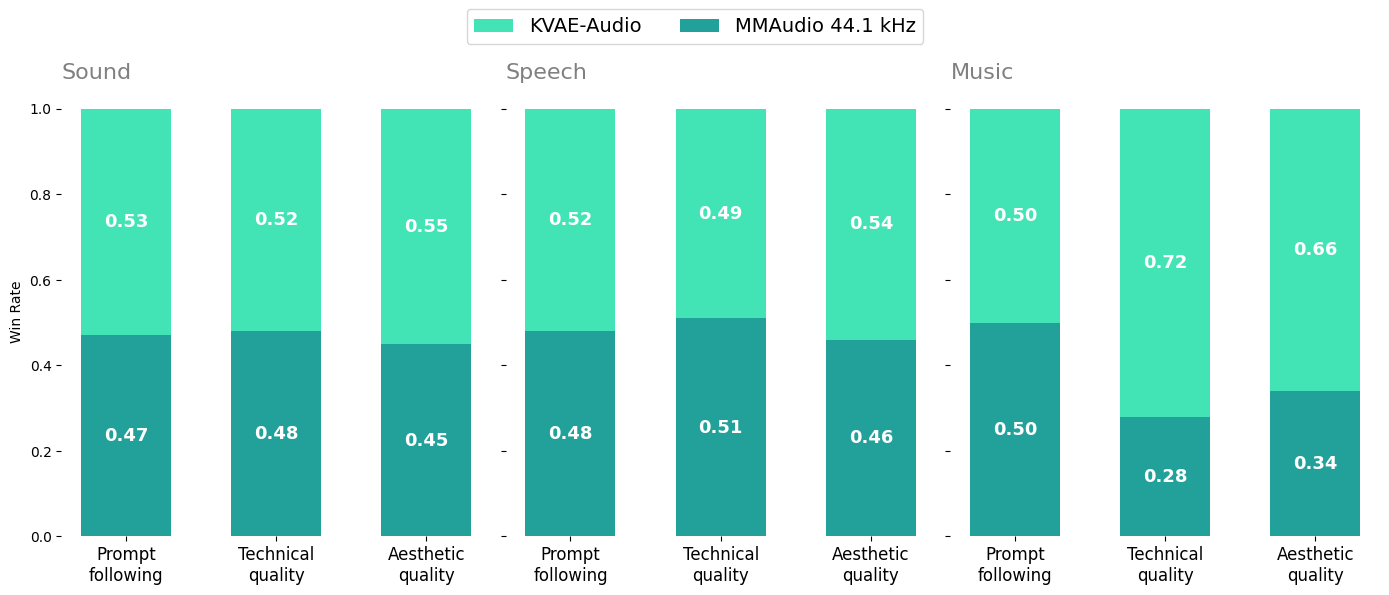
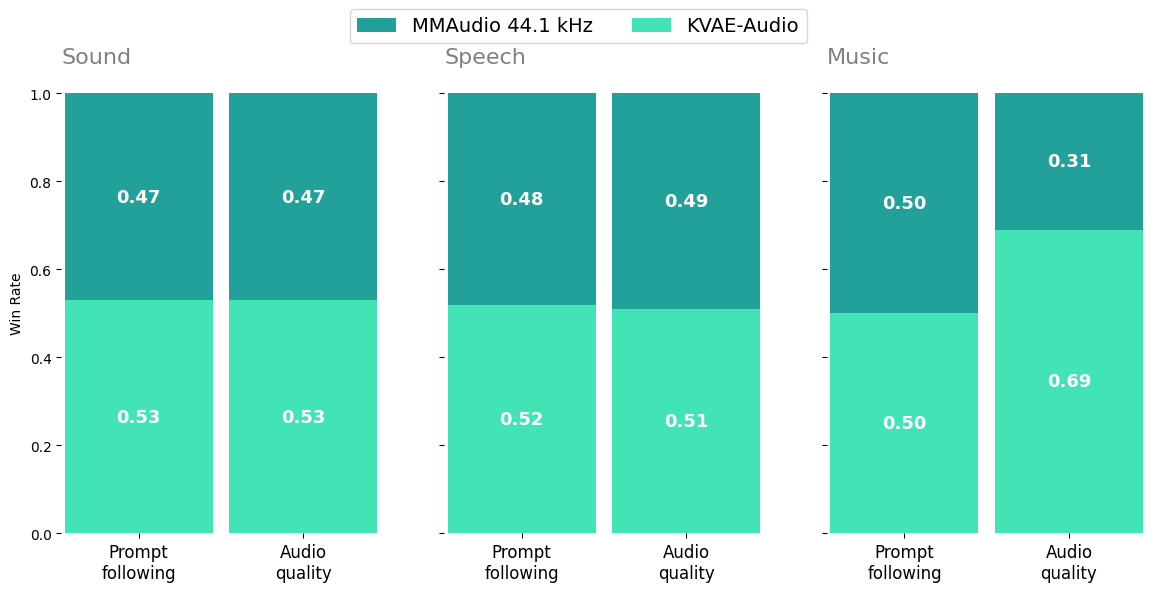
upd: images

diff --git a/README.md b/README.md
@@ -77,6 +77,43 @@ sf.write("output.wav", audio.squeeze(0).T.numpy(), sr)
 
 ## Evaluation results
 
+### Evaluation of latent space qualities for generation
+
+<img src="assets/sbs_same_l.png" />
+
+<img src="assets/sbs_moviegen.png" />
+
+<img src="assets/sbs_mmaudio.png" />
+
+Generative quality is established under a **fixed generator** — same DiT architecture, training data, and number of steps — varying only the autoencoder. We report objective generation metrics and blind human side-by-side below.
+
+### AudioCaps test set
+
+| Model           | # Params | Latent dim | CLAP↑     | CE↑       | PQ↑       | FAD (PANNs)↓ | FAD (PASST)↓ | FAD (VGGIsh)↓ |
+| --------------- | -------- | ---------- | --------- | --------- | --------- | ------------ | ------------ | ------------- |
+| MMAudio 44.1kHz | 427.6M   | 40         | *0,336*   | *3,909*   | *6,192*     | *17,873*       | *195,910*      | 1,364         |
+| DACVAE MovieGen | 107.7M   | 128        | 0,313     | 3,772     | 6,167     | 20,558       | 234,312      | 1,700         |
+| SAME-L          | 852.1M   | 256        | 0,322     | 3,588     | 5,756     | 18,446       | 240,635      | *1,325*       |
+| KVAE-Audio      | 166.9M   | 64         | **0,344** | **3,982** | **6,242** | **15,381**   | **193,760**  | **1,210**     |
+
+#### Song Describer
+
+| Model           | # Params | Latent dim | CLAP↑     | CE↑       | PQ↑       | FAD (PANNs)↓ | FAD (PASST)↓ | FAD (VGGIsh)↓ |
+| --------------- | -------- | ---------- | --------- | --------- | --------- | ------------ | ------------ | ------------- |
+| MMAudio 44.1kHz | 427.6M   | 40         | **0,356** | *7,136*   | *7,707*   | **5,412**    | **158,599**  | **0,356**     |
+| DACVAE MovieGen | 107.7M   | 128        | 0,312     | 6,953     | 7,538     | 10,194       | 214,009      | 1,046         |
+| SAME-L          | 852.1M   | 256        | *0,345*   | 7,076     | 7,465     | 8,442        | 250,668      | 0,987         |
+| KVAE-Audio      | 166.9M   | 64         | 0,339     | **7,216** | **7,929** | *7,971*        | *189,427*      | *0,599*         |
+
+#### LibriSpeech test-clean
+
+| Model           | # Params | Latent dim | CLAP↑     | CE↑       | PQ↑       | FAD (PANNs)↓ | FAD (PASST)↓ | FAD (VGGIsh)↓ | WER↓      | CER↓      |
+| --------------- | -------- | ---------- | --------- | --------- | --------- | ------------ | ------------ | ------------- | --------- | --------- |
+| MMAudio 44.1kHz | 427.6M   | 40         | 0,368     | *5,704*   | 6,629     | 8,305        | **105,931**  | *2,001*       | *0,257*   | *0,593*   |
+| DACVAE MovieGen | 107.7M   | 128        | **0,413** | 5,482     | **7,052** | *5,008*      | 210,478      | **1,501**     | 0,911     | 1,048     |
+| SAME-L          | 852.1M   | 256        | 0,379     | 4,617     | 5,024     | 10,257       | 301,508      | 2,721         | 0,349     | 0,629     |
+| KVAE-Audio      | 166.9M   | 64         | *0,389*   | **5,906** | *6,940*   | **4,677**    | *185,609*    | 2,138         | **0,244** | **0,576** |
+
 ### Reconstructions
 
 Reconstruction is evaluated on open datasets across domains (the released weights directly substantiate these numbers). Baselines: **[MMAudio 44.1 kHz](https://arxiv.org/abs/2412.15322)** VAE, **[DACVAE from MovieGen Audio](https://arxiv.org/abs/2410.13720)**, **[SAME-L](https://arxiv.org/abs/2605.18613)** (Stable Audio 3 VAE).
@@ -108,49 +145,11 @@ Reconstruction is evaluated on open datasets across domains (the released weight
 | SAME-L          | 852.1M   | 256        | 0,774     | 1,575     | 0,007     | 9,939      | 10,374     | 10,376     | 2,982     |
 | KVAE-Audio      | 166.9M   | 64         | *0,463*   | *1,314*   | **0,006** | *9,952*    | *10,377*   | *10,384*   | **4,266** |
 
-### Evaluation of latent space qualities for generation
-
-Generative quality is established under a **fixed generator** — same DiT architecture, training data, and number of steps — varying only the autoencoder. We report objective generation metrics and blind human side-by-side below.
-
-### AudioCaps test set
-
-| Model           | # Params | Latent dim | CLAP↑     | CE↑       | PQ↑       | FAD (PANNs)↓ | FAD (PASST)↓ | FAD (VGGIsh)↓ |
-| --------------- | -------- | ---------- | --------- | --------- | --------- | ------------ | ------------ | ------------- |
-| MMAudio 44.1kHz | 427.6M   | 40         | *0,336*   | *3,909*   | *6,192*     | *17,873*       | *195,910*      | 1,364         |
-| DACVAE MovieGen | 107.7M   | 128        | 0,313     | 3,772     | 6,167     | 20,558       | 234,312      | 1,700         |
-| SAME-L          | 852.1M   | 256        | 0,322     | 3,588     | 5,756     | 18,446       | 240,635      | *1,325*       |
-| KVAE-Audio      | 166.9M   | 64         | **0,344** | **3,982** | **6,242** | **15,381**   | **193,760**  | **1,210**     |
-
-#### Song Describer
-
-| Model           | # Params | Latent dim | CLAP↑     | CE↑       | PQ↑       | FAD (PANNs)↓ | FAD (PASST)↓ | FAD (VGGIsh)↓ |
-| --------------- | -------- | ---------- | --------- | --------- | --------- | ------------ | ------------ | ------------- |
-| MMAudio 44.1kHz | 427.6M   | 40         | **0,356** | *7,136*   | *7,707*   | **5,412**    | **158,599**  | **0,356**     |
-| DACVAE MovieGen | 107.7M   | 128        | 0,312     | 6,953     | 7,538     | 10,194       | 214,009      | 1,046         |
-| SAME-L          | 852.1M   | 256        | *0,345*   | 7,076     | 7,465     | 8,442        | 250,668      | 0,987         |
-| KVAE-Audio      | 166.9M   | 64         | 0,339     | **7,216** | **7,929** | *7,971*        | *189,427*      | *0,599*         |
-
-#### LibriSpeech test-clean
-
-| Model           | # Params | Latent dim | CLAP↑     | CE↑       | PQ↑       | FAD (PANNs)↓ | FAD (PASST)↓ | FAD (VGGIsh)↓ | WER↓      | CER↓      |
-| --------------- | -------- | ---------- | --------- | --------- | --------- | ------------ | ------------ | ------------- | --------- | --------- |
-| MMAudio 44.1kHz | 427.6M   | 40         | 0,368     | *5,704*   | 6,629     | 8,305        | **105,931**  | *2,001*       | *0,257*   | *0,593*   |
-| DACVAE MovieGen | 107.7M   | 128        | **0,413** | 5,482     | **7,052** | *5,008*      | 210,478      | **1,501**     | 0,911     | 1,048     |
-| SAME-L          | 852.1M   | 256        | 0,379     | 4,617     | 5,024     | 10,257       | 301,508      | 2,721         | 0,349     | 0,629     |
-| KVAE-Audio      | 166.9M   | 64         | *0,389*   | **5,906** | *6,940*   | **4,677**    | *185,609*    | 2,138         | **0,244** | **0,576** |
-
-
-<img src="assets/sbs_mmaudio.png" />
-
-<img src="assets/sbs_moviegen.png" />
-
-<img src="assets/sbs_same_l.png" />
-
 ## Citation
 
 ```
 @misc{kvae_audio_2026,
-    author = {Ivan Kirillov, Denis Parkhomenko, Alexandr Ivanov, Azat Saginbaev, Egor Silvestrov},
+    author = {Ivan Kirillov, Denis Parkhomenko, Alexandr Ivanov, Azat Saginbaev, Egor Silvestrov, Denis Dimitrov},
     title = {KVAE-Audio: a full-band continuous audio tokenizer for generative models},
     howpublished = {\url{https://github.com/kandinskylab/kvae-audio}},
     year = 2026
